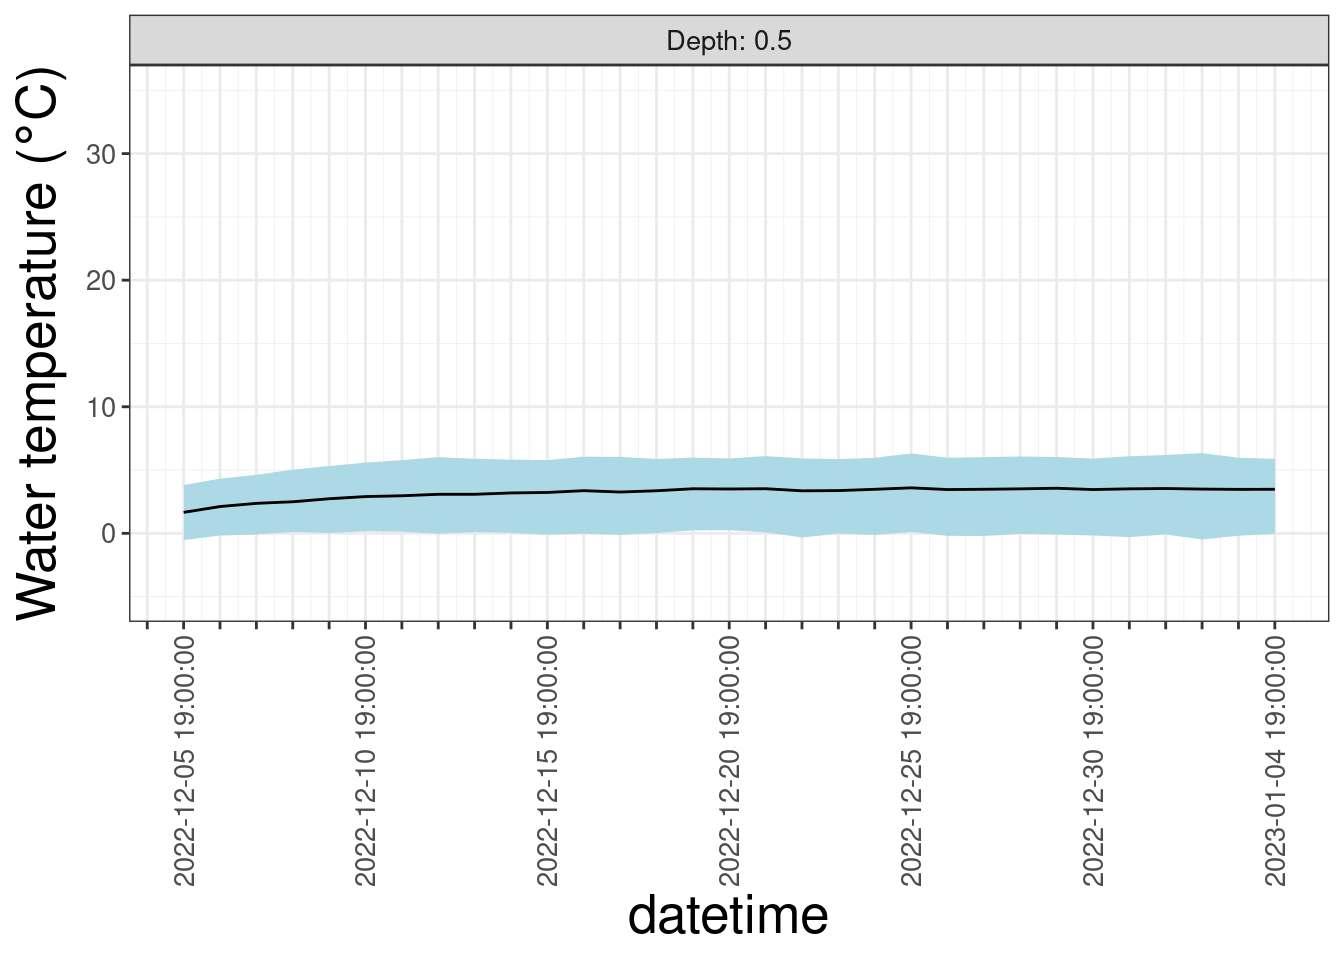
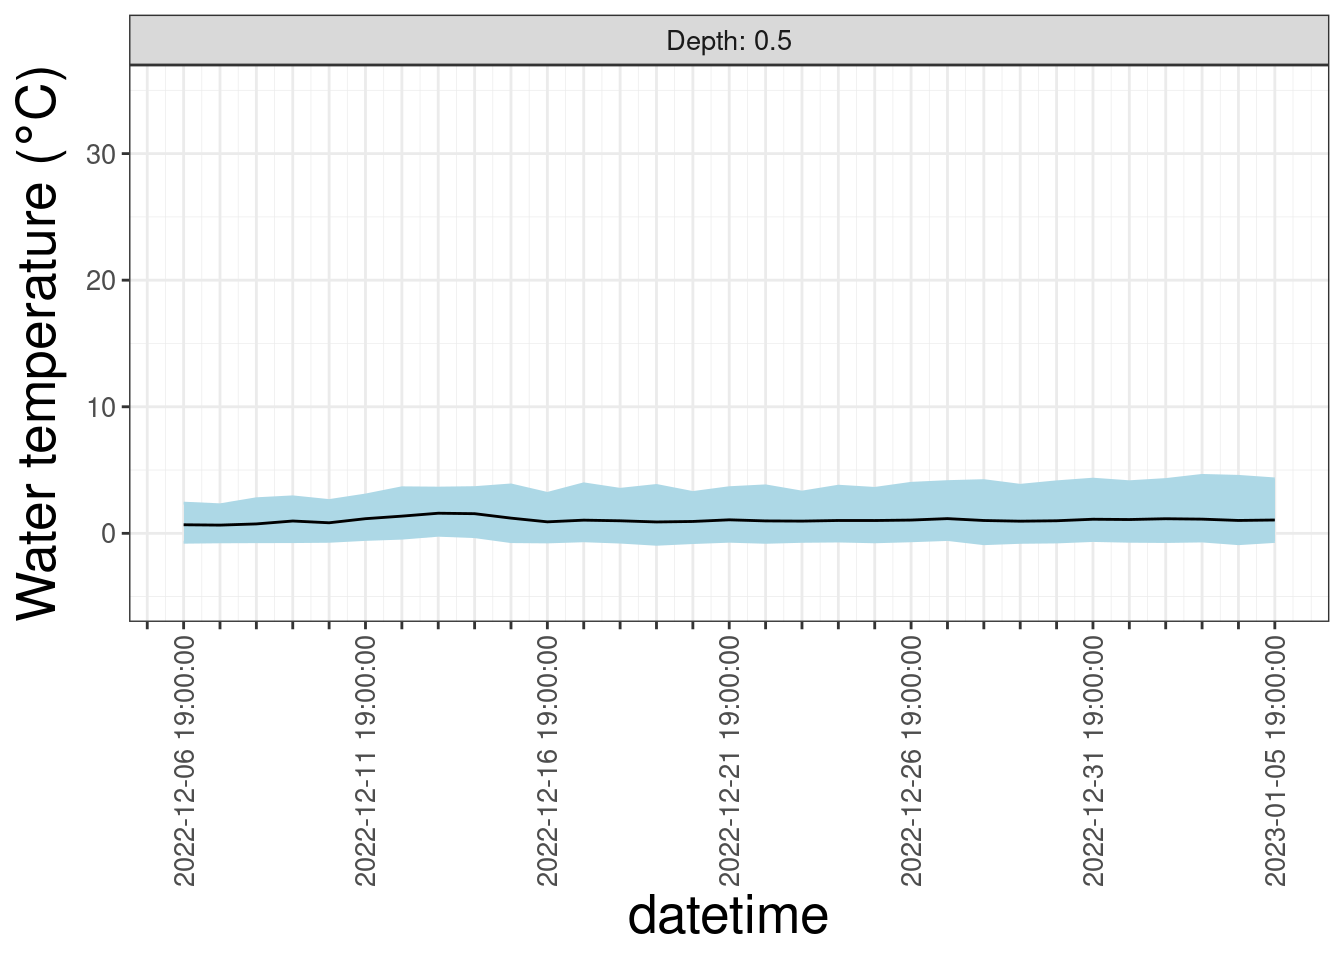
Re-build site

diff --git a/docs/index.html b/docs/index.html
@@ -163,15 +163,15 @@ background-size: cover;
 
 
 <p>Welcome to the Forecasting Lake and Reservoir Ecosystems (FLARE) dashboard!</p>
-<p>This page was last updated on 2022-12-07 07:21:17 (Eastern U.S. time).</p>
+<p>This page was last updated on 2022-12-07 08:26:05 (Eastern U.S. time).</p>
 <p>This dashboard provides daily updates to visualize recent water quality forecasts generated across the world using FLARE system. FLARE iterative updates model simulations using real-time data and quantifies uncertainty in forecasts.</p>
 <section id="flare-sites" class="level3">
 <h3 class="anchored" data-anchor-id="flare-sites">FLARE sites</h3>
 <div class="cell" data-fig.showtext="false">
 <div class="cell-output-display">
 
-<div id="htmlwidget-c8650400702e2f92410a" style="width:100%;height:650px;" class="leaflet html-widget"></div>
-<script type="application/json" data-for="htmlwidget-c8650400702e2f92410a">{"x":{"options":{"crs":{"crsClass":"L.CRS.EPSG3857","code":null,"proj4def":null,"projectedBounds":null,"options":{}}},"calls":[{"method":"createMapPane","args":["tmap401",401]},{"method":"addProviderTiles","args":["Esri.WorldGrayCanvas",null,"Esri.WorldGrayCanvas",{"minZoom":0,"maxZoom":18,"tileSize":256,"subdomains":"abc","errorTileUrl":"","tms":false,"noWrap":false,"zoomOffset":0,"zoomReverse":false,"opacity":1,"zIndex":1,"detectRetina":false,"pane":"tilePane"}]},{"method":"addProviderTiles","args":["OpenStreetMap",null,"OpenStreetMap",{"minZoom":0,"maxZoom":18,"tileSize":256,"subdomains":"abc","errorTileUrl":"","tms":false,"noWrap":false,"zoomOffset":0,"zoomReverse":false,"opacity":1,"zIndex":1,"detectRetina":false,"pane":"tilePane"}]},{"method":"addProviderTiles","args":["Esri.WorldTopoMap",null,"Esri.WorldTopoMap",{"minZoom":0,"maxZoom":18,"tileSize":256,"subdomains":"abc","errorTileUrl":"","tms":false,"noWrap":false,"zoomOffset":0,"zoomReverse":false,"opacity":1,"zIndex":1,"detectRetina":false,"pane":"tilePane"}]},{"method":"addCircles","args":[[38.572152334502,37.7204783690429,42.4540298225236,37.2559331332168,31.5310212660165,43.9505290500444,43.7593508863673,44.5893378606488,47.7653229679308,32.6375740631776,-34.9006624535033],[-80.2308481245509,-78.3942390493425,-73.627890850007,-80.662656857947,-83.4959288636122,-89.1739727885632,-91.1144955306653,-101.883901771966,-101.198233275342,-82.7790064229503,138.087134034963],[206172.540166362,206172.540166362,206172.540166362,206172.540166362,206172.540166362,206172.540166362,206172.540166362,206172.540166362,206172.540166362,206172.540166362,206172.540166362],["Falling.Creek","Beaver.Dam","Lake.Sunapee","Carvins.Cove.Reservoir","Barco.Lake","Crampton.Lake","Little.Rock.Lake","Prairie.Lake","Prairie.Pothole","Suggs.Lake","Lake.Alexandrina"],"neon",{"interactive":true,"className":"","pane":"tmap401","stroke":true,"color":"#666666","weight":1,"opacity":0.5,"fill":true,"fillColor":["#FB8072","#FB8072","#8DD3C7","#FB8072","#FFFFB3","#FFFFB3","#FFFFB3","#FFFFB3","#FFFFB3","#FFFFB3","#BEBADA"],"fillOpacity":[1,1,1,1,1,1,1,1,1,1,1]},["<style> div.leaflet-popup-content {width:auto !important;overflow-y:auto; overflow-x:hidden;}<\/style><div style=\"max-height:25em;padding-right:0px;\"><table>\n\t\t\t   <thead><tr><th colspan=\"2\"><b>Falling Creek<\/b><\/th><\/thead><\/tr><tr><td style=\"color: #888888;\"><nobr>site_id<\/nobr><\/td><td align=\"right\"><nobr>Falling Creek<\/nobr><\/td><\/tr><\/table><\/div>","<style> div.leaflet-popup-content {width:auto !important;overflow-y:auto; overflow-x:hidden;}<\/style><div style=\"max-height:25em;padding-right:0px;\"><table>\n\t\t\t   <thead><tr><th colspan=\"2\"><b>Beaver Dam<\/b><\/th><\/thead><\/tr><tr><td style=\"color: #888888;\"><nobr>site_id<\/nobr><\/td><td align=\"right\"><nobr>Beaver Dam<\/nobr><\/td><\/tr><\/table><\/div>","<style> div.leaflet-popup-content {width:auto !important;overflow-y:auto; overflow-x:hidden;}<\/style><div style=\"max-height:25em;padding-right:0px;\"><table>\n\t\t\t   <thead><tr><th colspan=\"2\"><b>Lake Sunapee<\/b><\/th><\/thead><\/tr><tr><td style=\"color: #888888;\"><nobr>site_id<\/nobr><\/td><td align=\"right\"><nobr>Lake Sunapee<\/nobr><\/td><\/tr><\/table><\/div>","<style> div.leaflet-popup-content {width:auto !important;overflow-y:auto; overflow-x:hidden;}<\/style><div style=\"max-height:25em;padding-right:0px;\"><table>\n\t\t\t   <thead><tr><th colspan=\"2\"><b>Carvins Cove Reservoir<\/b><\/th><\/thead><\/tr><tr><td style=\"color: #888888;\"><nobr>site_id<\/nobr><\/td><td align=\"right\"><nobr>Carvins Cove Reservoir<\/nobr><\/td><\/tr><\/table><\/div>","<style> div.leaflet-popup-content {width:auto !important;overflow-y:auto; overflow-x:hidden;}<\/style><div style=\"max-height:25em;padding-right:0px;\"><table>\n\t\t\t   <thead><tr><th colspan=\"2\"><b>Barco Lake<\/b><\/th><\/thead><\/tr><tr><td style=\"color: #888888;\"><nobr>site_id<\/nobr><\/td><td align=\"right\"><nobr>Barco Lake<\/nobr><\/td><\/tr><\/table><\/div>","<style> div.leaflet-popup-content {width:auto !important;overflow-y:auto; overflow-x:hidden;}<\/style><div style=\"max-height:25em;padding-right:0px;\"><table>\n\t\t\t   <thead><tr><th colspan=\"2\"><b>Crampton Lake<\/b><\/th><\/thead><\/tr><tr><td style=\"color: #888888;\"><nobr>site_id<\/nobr><\/td><td align=\"right\"><nobr>Crampton Lake<\/nobr><\/td><\/tr><\/table><\/div>","<style> div.leaflet-popup-content {width:auto !important;overflow-y:auto; overflow-x:hidden;}<\/style><div style=\"max-height:25em;padding-right:0px;\"><table>\n\t\t\t   <thead><tr><th colspan=\"2\"><b>Little Rock Lake<\/b><\/th><\/thead><\/tr><tr><td style=\"color: #888888;\"><nobr>site_id<\/nobr><\/td><td align=\"right\"><nobr>Little Rock Lake<\/nobr><\/td><\/tr><\/table><\/div>","<style> div.leaflet-popup-content {width:auto !important;overflow-y:auto; overflow-x:hidden;}<\/style><div style=\"max-height:25em;padding-right:0px;\"><table>\n\t\t\t   <thead><tr><th colspan=\"2\"><b>Prairie Lake<\/b><\/th><\/thead><\/tr><tr><td style=\"color: #888888;\"><nobr>site_id<\/nobr><\/td><td align=\"right\"><nobr>Prairie Lake<\/nobr><\/td><\/tr><\/table><\/div>","<style> div.leaflet-popup-content {width:auto !important;overflow-y:auto; overflow-x:hidden;}<\/style><div style=\"max-height:25em;padding-right:0px;\"><table>\n\t\t\t   <thead><tr><th colspan=\"2\"><b>Prairie Pothole<\/b><\/th><\/thead><\/tr><tr><td style=\"color: #888888;\"><nobr>site_id<\/nobr><\/td><td align=\"right\"><nobr>Prairie Pothole<\/nobr><\/td><\/tr><\/table><\/div>","<style> div.leaflet-popup-content {width:auto !important;overflow-y:auto; overflow-x:hidden;}<\/style><div style=\"max-height:25em;padding-right:0px;\"><table>\n\t\t\t   <thead><tr><th colspan=\"2\"><b>Suggs Lake<\/b><\/th><\/thead><\/tr><tr><td style=\"color: #888888;\"><nobr>site_id<\/nobr><\/td><td align=\"right\"><nobr>Suggs Lake<\/nobr><\/td><\/tr><\/table><\/div>","<style> div.leaflet-popup-content {width:auto !important;overflow-y:auto; overflow-x:hidden;}<\/style><div style=\"max-height:25em;padding-right:0px;\"><table>\n\t\t\t   <thead><tr><th colspan=\"2\"><b>Lake Alexandrina<\/b><\/th><\/thead><\/tr><tr><td style=\"color: #888888;\"><nobr>site_id<\/nobr><\/td><td align=\"right\"><nobr>Lake Alexandrina<\/nobr><\/td><\/tr><\/table><\/div>"],null,["Falling Creek","Beaver Dam","Lake Sunapee","Carvins Cove Reservoir","Barco Lake","Crampton Lake","Little Rock Lake","Prairie Lake","Prairie Pothole","Suggs Lake","Lake Alexandrina"],{"interactive":false,"permanent":false,"direction":"auto","opacity":1,"offset":[0,0],"textsize":"10px","textOnly":false,"className":"","sticky":true},null,null]},{"method":"addLegend","args":[{"colors":["#8DD3C7","#FFFFB3","#BEBADA","#FB8072"],"labels":["LSPA","NEON","UWA","WVWA"],"na_color":null,"na_label":"NA","opacity":1,"position":"topright","type":"unknown","title":"Partner","extra":null,"layerId":"legend401","className":"info legend neon","group":"neon"}]},{"method":"addLayersControl","args":[["Esri.WorldGrayCanvas","OpenStreetMap","Esri.WorldTopoMap"],"neon",{"collapsed":true,"autoZIndex":true,"position":"topleft"}]}],"limits":{"lat":[-34.9006624535033,47.7653229679308],"lng":[-101.883901771966,138.087134034963]},"fitBounds":[-35.436808,-74,48,139.168997,[]]},"evals":[],"jsHooks":[]}</script>
+<div id="htmlwidget-85c8fecddea6b8703928" style="width:100%;height:650px;" class="leaflet html-widget"></div>
+<script type="application/json" data-for="htmlwidget-85c8fecddea6b8703928">{"x":{"options":{"crs":{"crsClass":"L.CRS.EPSG3857","code":null,"proj4def":null,"projectedBounds":null,"options":{}}},"calls":[{"method":"createMapPane","args":["tmap401",401]},{"method":"addProviderTiles","args":["Esri.WorldGrayCanvas",null,"Esri.WorldGrayCanvas",{"minZoom":0,"maxZoom":18,"tileSize":256,"subdomains":"abc","errorTileUrl":"","tms":false,"noWrap":false,"zoomOffset":0,"zoomReverse":false,"opacity":1,"zIndex":1,"detectRetina":false,"pane":"tilePane"}]},{"method":"addProviderTiles","args":["OpenStreetMap",null,"OpenStreetMap",{"minZoom":0,"maxZoom":18,"tileSize":256,"subdomains":"abc","errorTileUrl":"","tms":false,"noWrap":false,"zoomOffset":0,"zoomReverse":false,"opacity":1,"zIndex":1,"detectRetina":false,"pane":"tilePane"}]},{"method":"addProviderTiles","args":["Esri.WorldTopoMap",null,"Esri.WorldTopoMap",{"minZoom":0,"maxZoom":18,"tileSize":256,"subdomains":"abc","errorTileUrl":"","tms":false,"noWrap":false,"zoomOffset":0,"zoomReverse":false,"opacity":1,"zIndex":1,"detectRetina":false,"pane":"tilePane"}]},{"method":"addCircles","args":[[35.6946631203811,33.7633896527411,42.1331260974591,36.762685771703,27.4826687343468,44.4598276295419,47.1845913490053,47.5886907077706,47.986683070437,27.8685240611928,-34.8275407709906],[-80.7001105158001,-79.5821628204337,-70.4720480707286,-80.1674655354911,-83.550804878491,-88.0117594946671,-90.6730466338942,-99.2563415013724,-99.0708657860484,-81.414155866935,140.732088674763],[206172.540166362,206172.540166362,206172.540166362,206172.540166362,206172.540166362,206172.540166362,206172.540166362,206172.540166362,206172.540166362,206172.540166362,206172.540166362],["Falling.Creek","Beaver.Dam","Lake.Sunapee","Carvins.Cove.Reservoir","Barco.Lake","Crampton.Lake","Little.Rock.Lake","Prairie.Lake","Prairie.Pothole","Suggs.Lake","Lake.Alexandrina"],"neon",{"interactive":true,"className":"","pane":"tmap401","stroke":true,"color":"#666666","weight":1,"opacity":0.5,"fill":true,"fillColor":["#FB8072","#FB8072","#8DD3C7","#FB8072","#FFFFB3","#FFFFB3","#FFFFB3","#FFFFB3","#FFFFB3","#FFFFB3","#BEBADA"],"fillOpacity":[1,1,1,1,1,1,1,1,1,1,1]},["<style> div.leaflet-popup-content {width:auto !important;overflow-y:auto; overflow-x:hidden;}<\/style><div style=\"max-height:25em;padding-right:0px;\"><table>\n\t\t\t   <thead><tr><th colspan=\"2\"><b>Falling Creek<\/b><\/th><\/thead><\/tr><tr><td style=\"color: #888888;\"><nobr>site_id<\/nobr><\/td><td align=\"right\"><nobr>Falling Creek<\/nobr><\/td><\/tr><\/table><\/div>","<style> div.leaflet-popup-content {width:auto !important;overflow-y:auto; overflow-x:hidden;}<\/style><div style=\"max-height:25em;padding-right:0px;\"><table>\n\t\t\t   <thead><tr><th colspan=\"2\"><b>Beaver Dam<\/b><\/th><\/thead><\/tr><tr><td style=\"color: #888888;\"><nobr>site_id<\/nobr><\/td><td align=\"right\"><nobr>Beaver Dam<\/nobr><\/td><\/tr><\/table><\/div>","<style> div.leaflet-popup-content {width:auto !important;overflow-y:auto; overflow-x:hidden;}<\/style><div style=\"max-height:25em;padding-right:0px;\"><table>\n\t\t\t   <thead><tr><th colspan=\"2\"><b>Lake Sunapee<\/b><\/th><\/thead><\/tr><tr><td style=\"color: #888888;\"><nobr>site_id<\/nobr><\/td><td align=\"right\"><nobr>Lake Sunapee<\/nobr><\/td><\/tr><\/table><\/div>","<style> div.leaflet-popup-content {width:auto !important;overflow-y:auto; overflow-x:hidden;}<\/style><div style=\"max-height:25em;padding-right:0px;\"><table>\n\t\t\t   <thead><tr><th colspan=\"2\"><b>Carvins Cove Reservoir<\/b><\/th><\/thead><\/tr><tr><td style=\"color: #888888;\"><nobr>site_id<\/nobr><\/td><td align=\"right\"><nobr>Carvins Cove Reservoir<\/nobr><\/td><\/tr><\/table><\/div>","<style> div.leaflet-popup-content {width:auto !important;overflow-y:auto; overflow-x:hidden;}<\/style><div style=\"max-height:25em;padding-right:0px;\"><table>\n\t\t\t   <thead><tr><th colspan=\"2\"><b>Barco Lake<\/b><\/th><\/thead><\/tr><tr><td style=\"color: #888888;\"><nobr>site_id<\/nobr><\/td><td align=\"right\"><nobr>Barco Lake<\/nobr><\/td><\/tr><\/table><\/div>","<style> div.leaflet-popup-content {width:auto !important;overflow-y:auto; overflow-x:hidden;}<\/style><div style=\"max-height:25em;padding-right:0px;\"><table>\n\t\t\t   <thead><tr><th colspan=\"2\"><b>Crampton Lake<\/b><\/th><\/thead><\/tr><tr><td style=\"color: #888888;\"><nobr>site_id<\/nobr><\/td><td align=\"right\"><nobr>Crampton Lake<\/nobr><\/td><\/tr><\/table><\/div>","<style> div.leaflet-popup-content {width:auto !important;overflow-y:auto; overflow-x:hidden;}<\/style><div style=\"max-height:25em;padding-right:0px;\"><table>\n\t\t\t   <thead><tr><th colspan=\"2\"><b>Little Rock Lake<\/b><\/th><\/thead><\/tr><tr><td style=\"color: #888888;\"><nobr>site_id<\/nobr><\/td><td align=\"right\"><nobr>Little Rock Lake<\/nobr><\/td><\/tr><\/table><\/div>","<style> div.leaflet-popup-content {width:auto !important;overflow-y:auto; overflow-x:hidden;}<\/style><div style=\"max-height:25em;padding-right:0px;\"><table>\n\t\t\t   <thead><tr><th colspan=\"2\"><b>Prairie Lake<\/b><\/th><\/thead><\/tr><tr><td style=\"color: #888888;\"><nobr>site_id<\/nobr><\/td><td align=\"right\"><nobr>Prairie Lake<\/nobr><\/td><\/tr><\/table><\/div>","<style> div.leaflet-popup-content {width:auto !important;overflow-y:auto; overflow-x:hidden;}<\/style><div style=\"max-height:25em;padding-right:0px;\"><table>\n\t\t\t   <thead><tr><th colspan=\"2\"><b>Prairie Pothole<\/b><\/th><\/thead><\/tr><tr><td style=\"color: #888888;\"><nobr>site_id<\/nobr><\/td><td align=\"right\"><nobr>Prairie Pothole<\/nobr><\/td><\/tr><\/table><\/div>","<style> div.leaflet-popup-content {width:auto !important;overflow-y:auto; overflow-x:hidden;}<\/style><div style=\"max-height:25em;padding-right:0px;\"><table>\n\t\t\t   <thead><tr><th colspan=\"2\"><b>Suggs Lake<\/b><\/th><\/thead><\/tr><tr><td style=\"color: #888888;\"><nobr>site_id<\/nobr><\/td><td align=\"right\"><nobr>Suggs Lake<\/nobr><\/td><\/tr><\/table><\/div>","<style> div.leaflet-popup-content {width:auto !important;overflow-y:auto; overflow-x:hidden;}<\/style><div style=\"max-height:25em;padding-right:0px;\"><table>\n\t\t\t   <thead><tr><th colspan=\"2\"><b>Lake Alexandrina<\/b><\/th><\/thead><\/tr><tr><td style=\"color: #888888;\"><nobr>site_id<\/nobr><\/td><td align=\"right\"><nobr>Lake Alexandrina<\/nobr><\/td><\/tr><\/table><\/div>"],null,["Falling Creek","Beaver Dam","Lake Sunapee","Carvins Cove Reservoir","Barco Lake","Crampton Lake","Little Rock Lake","Prairie Lake","Prairie Pothole","Suggs Lake","Lake Alexandrina"],{"interactive":false,"permanent":false,"direction":"auto","opacity":1,"offset":[0,0],"textsize":"10px","textOnly":false,"className":"","sticky":true},null,null]},{"method":"addLegend","args":[{"colors":["#8DD3C7","#FFFFB3","#BEBADA","#FB8072"],"labels":["LSPA","NEON","UWA","WVWA"],"na_color":null,"na_label":"NA","opacity":1,"position":"topright","type":"unknown","title":"Partner","extra":null,"layerId":"legend401","className":"info legend neon","group":"neon"}]},{"method":"addLayersControl","args":[["Esri.WorldGrayCanvas","OpenStreetMap","Esri.WorldTopoMap"],"neon",{"collapsed":true,"autoZIndex":true,"position":"topleft"}]}],"limits":{"lat":[-34.8275407709906,47.986683070437],"lng":[-99.2563415013724,140.732088674763]},"fitBounds":[-35.436808,-74,48,139.168997,[]]},"evals":[],"jsHooks":[]}</script>
 </div>
 </div>
 <p>This material is based upon work supported by the National Science Foundation as part of awards CNS-1737424, DBI-1933102, and DBI-1933016. Any opinions, findings, and conclusions or recommendations expressed in this material are those of the author(s) and do not necessarily reflect the views of the National Science Foundation.</p>

diff --git a/docs/bvre.html b/docs/bvre.html
@@ -156,7 +156,7 @@ background-size: cover;
 </div>
 <section id="most-recent-forecasts" class="level2">
 <h2 class="anchored" data-anchor-id="most-recent-forecasts">Most recent forecasts</h2>
-<p>This page was last updated on 2022-12-07 07:20:59</p>
+<p>This page was last updated on 2022-12-07 08:25:47</p>
 <p>The most recent forecast is from 2022-12-06 19:00:00.</p>
 <div class="cell" data-fig.showtext="false">
 <div class="cell-output-display">

diff --git a/docs/neon.html b/docs/neon.html
@@ -186,7 +186,7 @@ background-size: cover;
 <div class="cell" data-fig.showtext="false">
 
 </div>
-<p>The most recent forecast is from 2022-12-05 19:00:00 (Eastern U.S. time).</p>
+<p>The most recent forecast is from 2022-12-06 19:00:00 (Eastern U.S. time).</p>
 <div class="cell" data-fig.showtext="false">
 <div class="cell-output-display">
 <p><img src="neon_files/figure-html/unnamed-chunk-7-1.png" class="img-fluid" width="672"></p>
